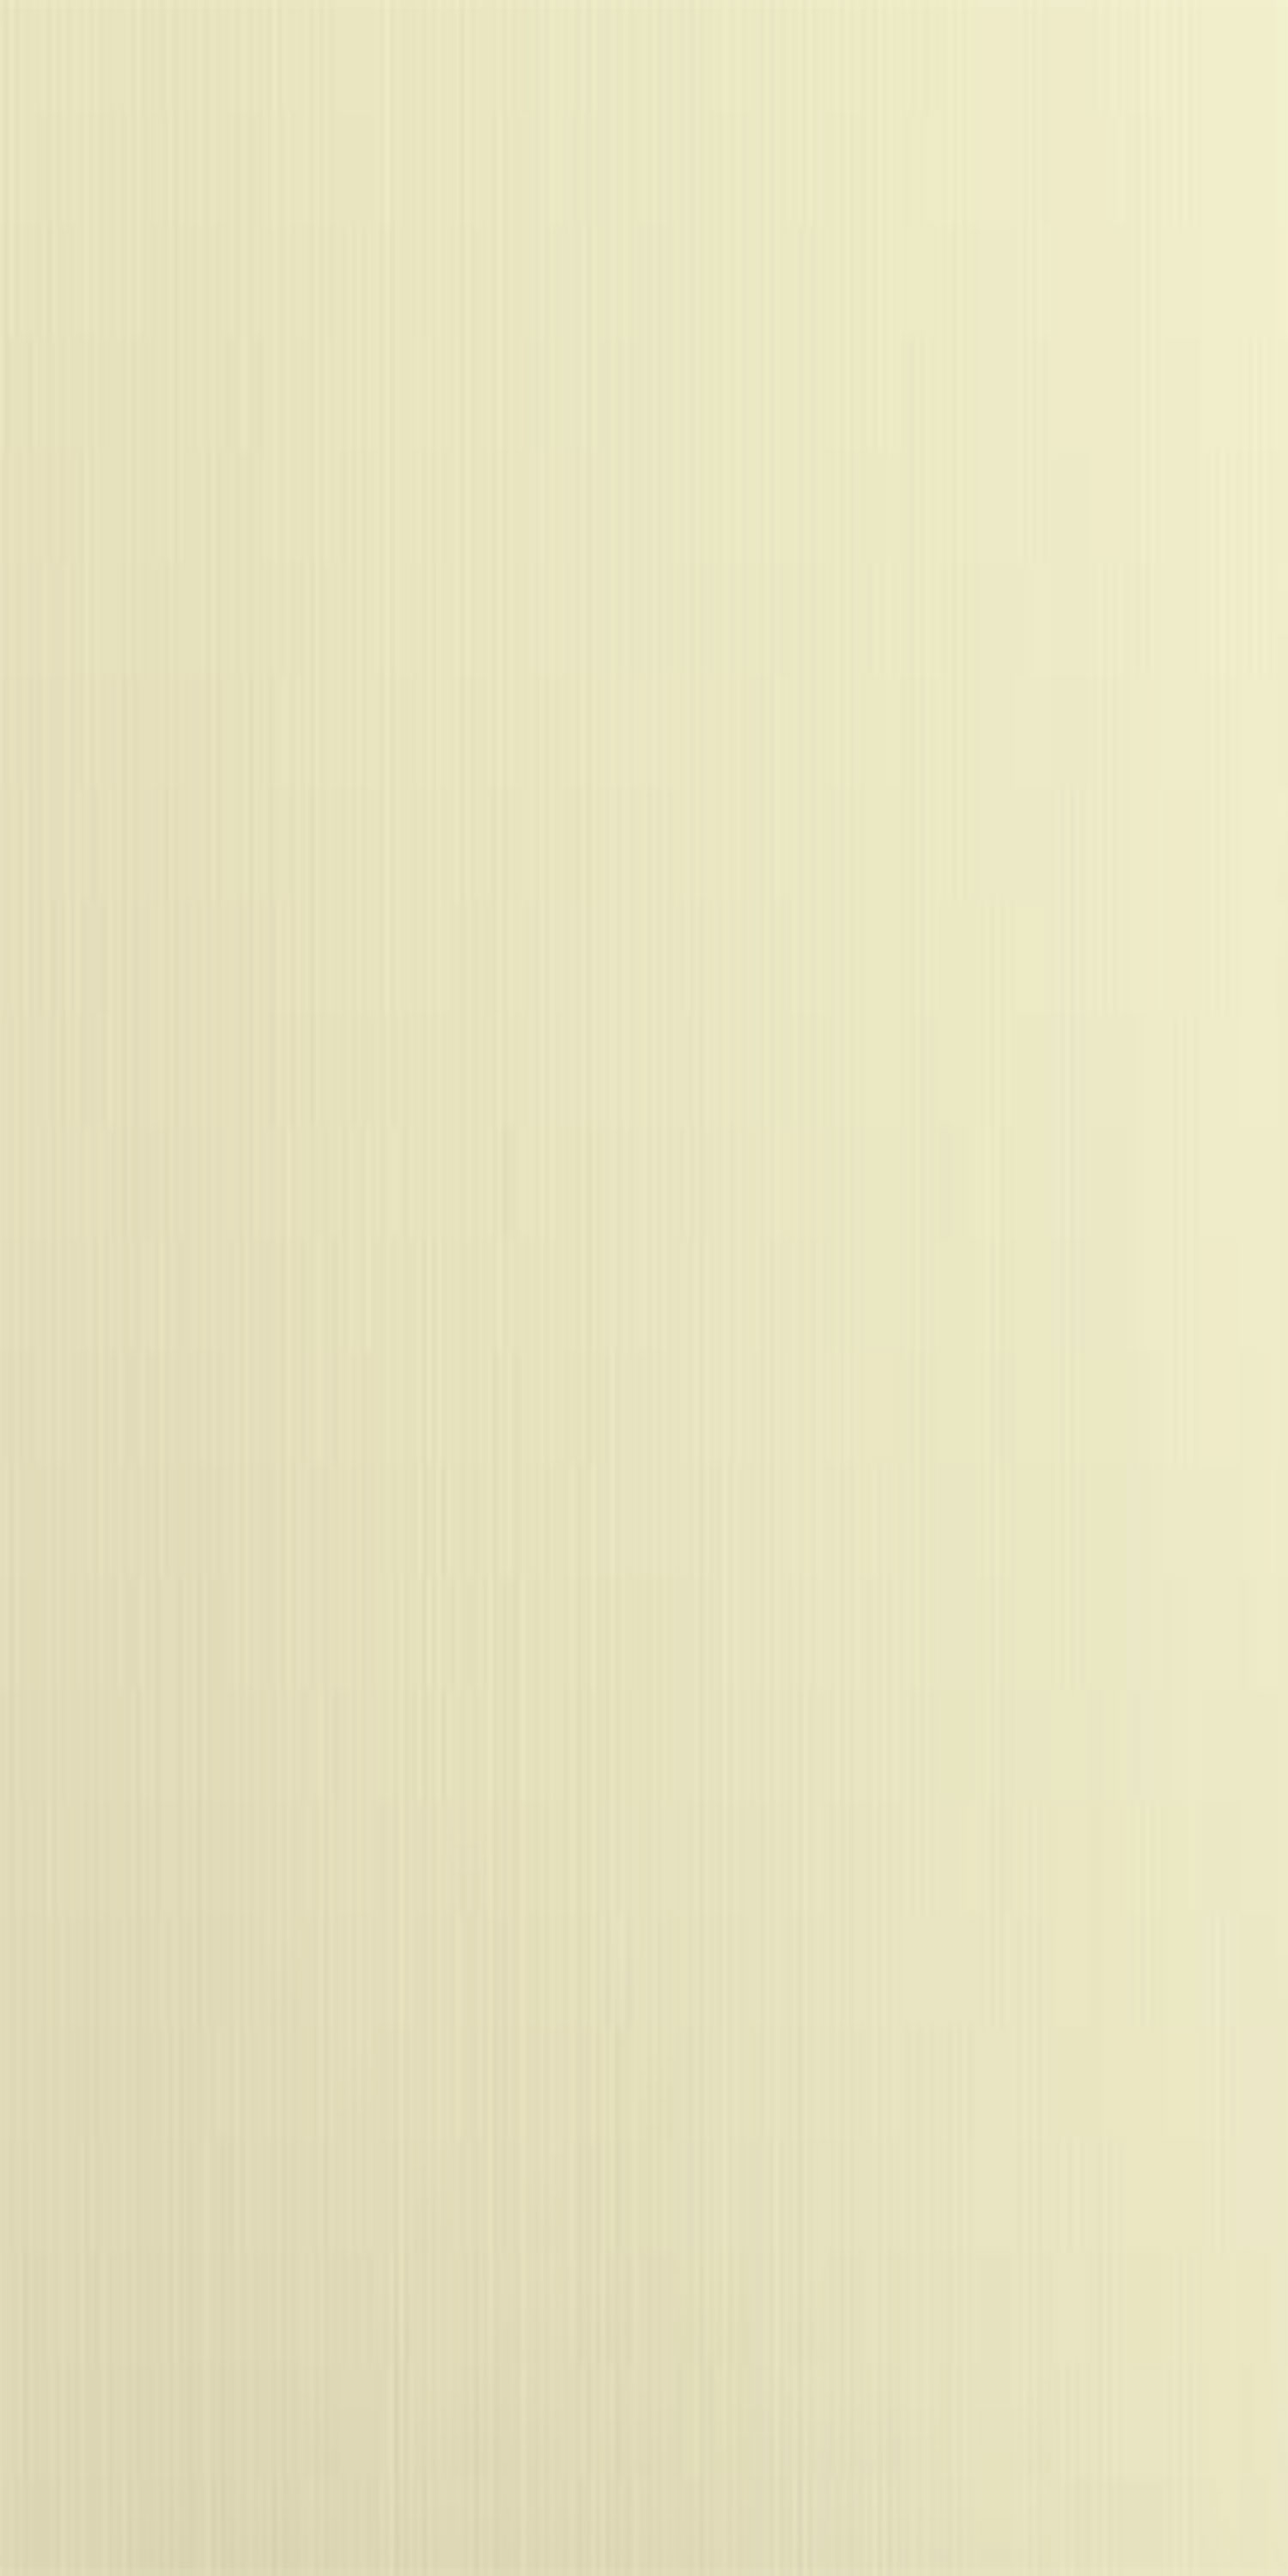
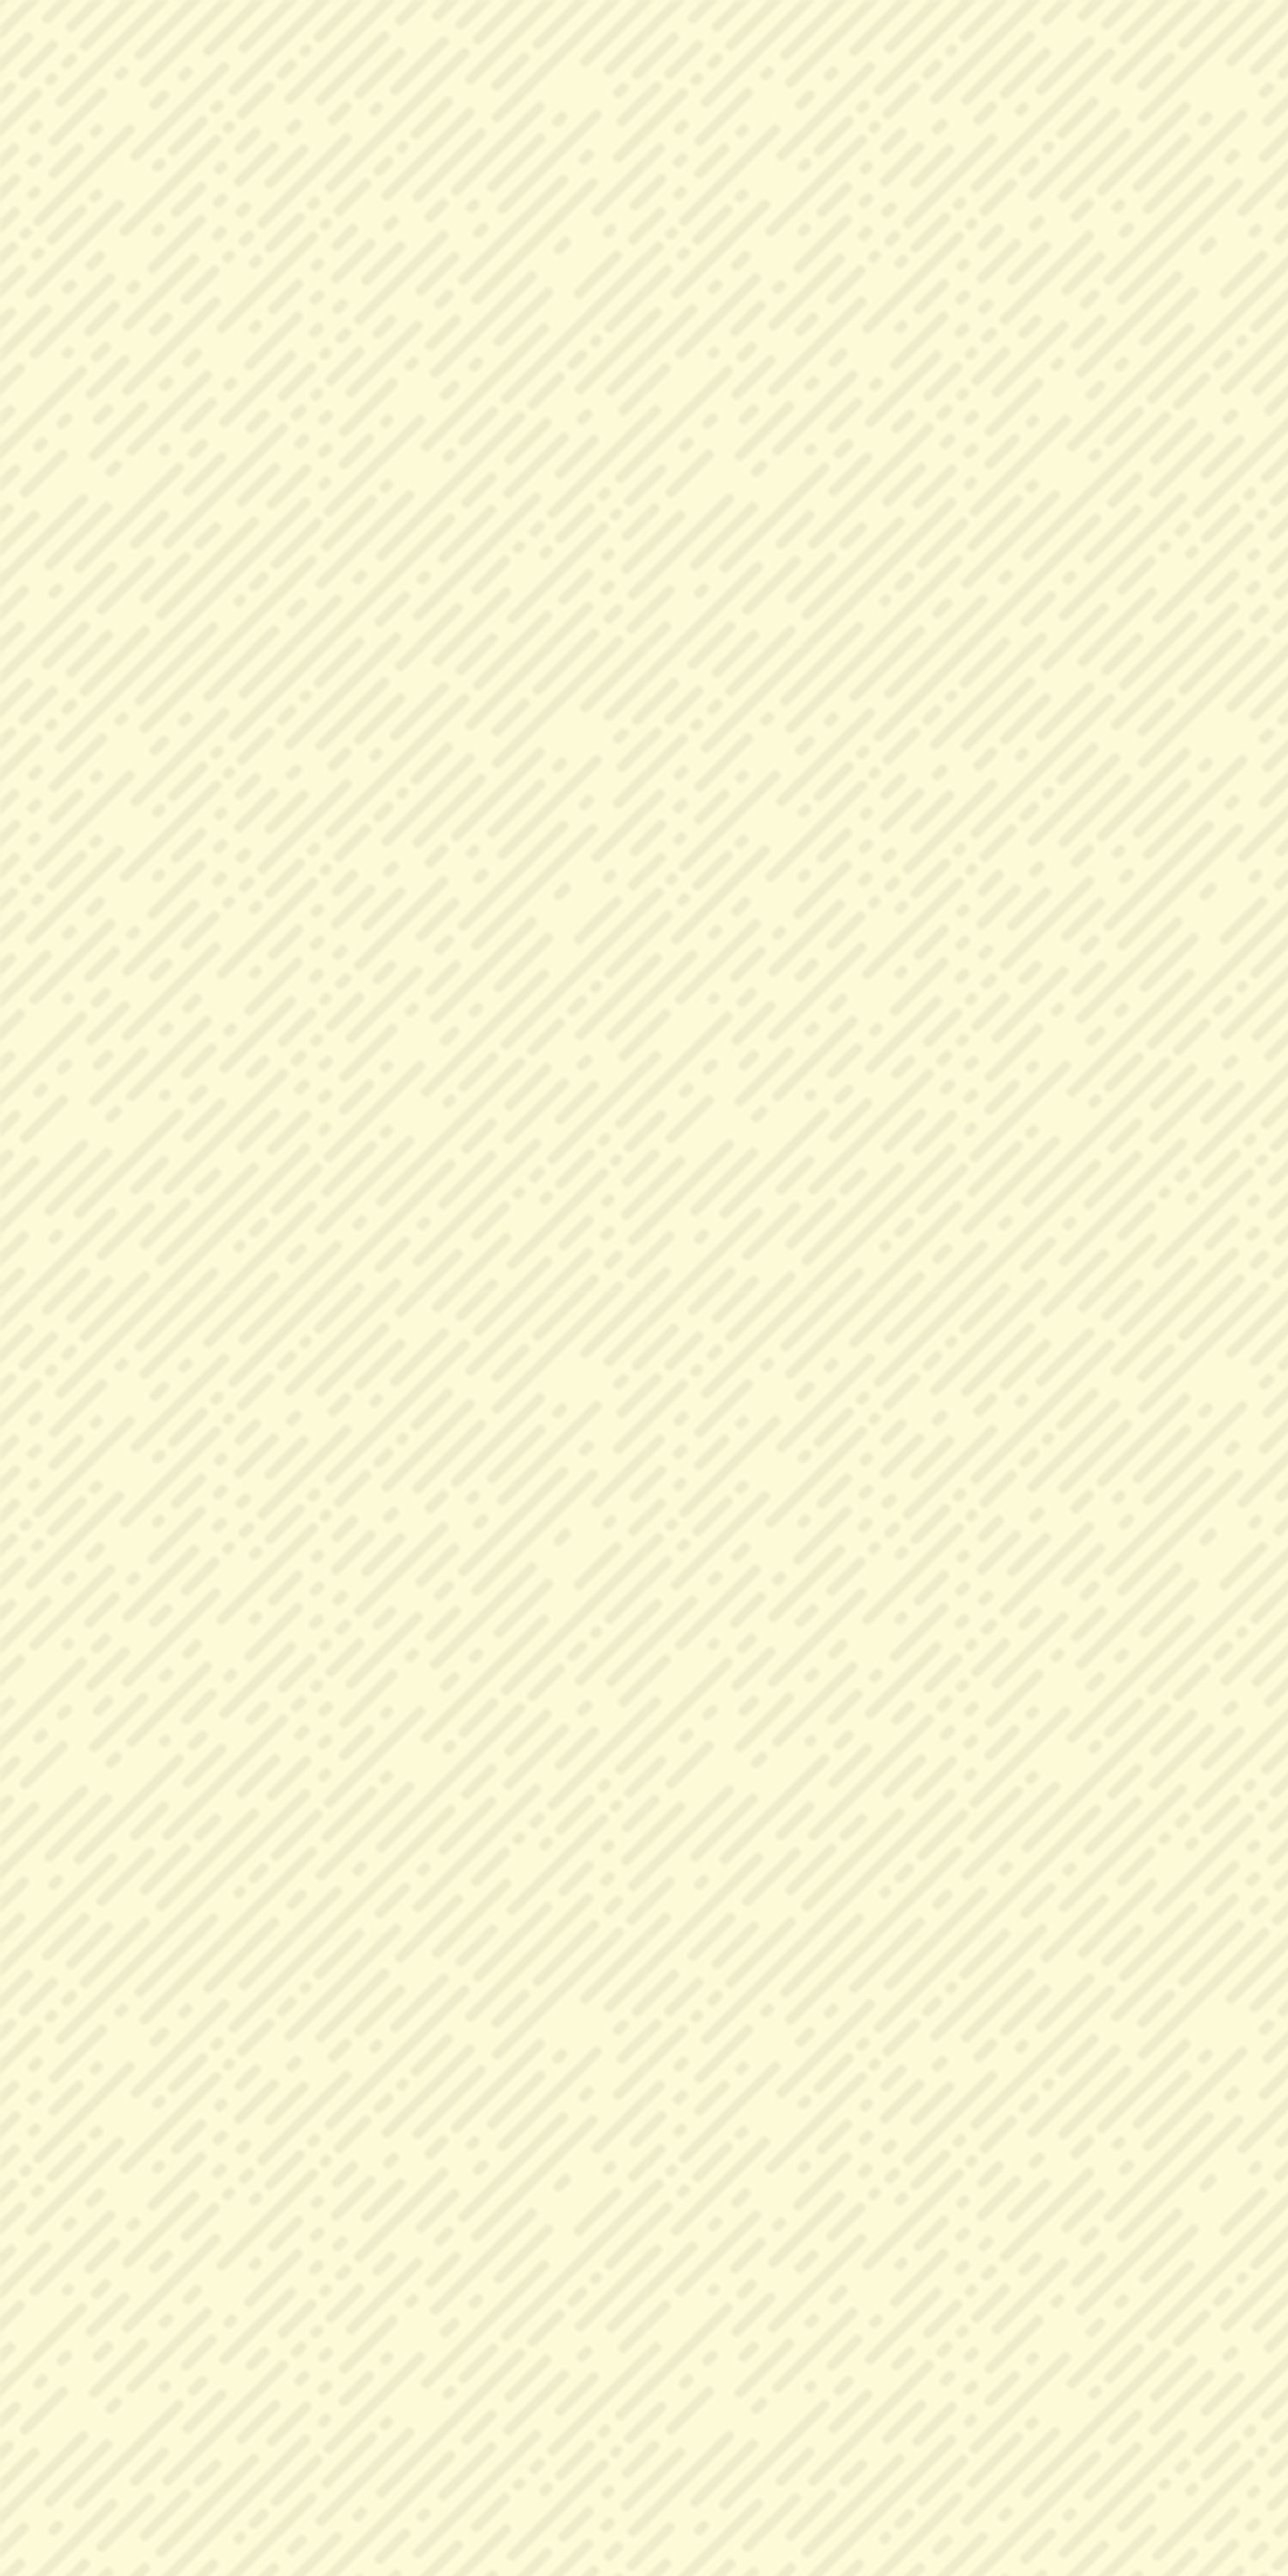
styling

Changed region(s): [[0.0, 0.0, 0.92, 1.0]]

diff --git a/client/src/App.css b/client/src/App.css
@@ -4,8 +4,8 @@
 }
 
 body{
-  background-color: rgb(254, 255, 214);
-  /* background-image: url('./images/main-background.jpg'); */
+  /* background-color: rgb(254, 255, 214); */
+  background-image: url('./images/main-background.jpg');
   margin: 0; padding: 0; height: 100%; width: 100%;
 }
 html {
@@ -123,6 +123,11 @@ min-height: 25px;
 }
 
 .card{
+  box-shadow: 2px 5px 10px #5a618a;
+}
+
+.sign-form {
+  border-radius: 25px;
   box-shadow: 2px 5px 10px #5a618a;
 }
 

diff --git a/client/src/pages/SignIn/SignIn.js b/client/src/pages/SignIn/SignIn.js
@@ -43,7 +43,7 @@ class SignIn extends Component {
         <Jumbotron />
         <div className = "container-fluid">
           <div className = "row">
-            <div className = "col-md-8 mt-5 border border-light mx-auto">
+            <div className = "col-md-8 mt-5 mb-5 border border-light bg-light sign-form p-3 mx-auto">
             <form>
               <div className="form-group">
                 <label className="float-left ml-2">Email address</label>

diff --git a/client/src/pages/SignUp/SignUp.js b/client/src/pages/SignUp/SignUp.js
@@ -42,7 +42,7 @@ class SignUp extends Component {
         <Jumbotron />
         <div className = "container-fluid">
           <div className = "row">
-            <div className = "col-md-8 mt-5 border border-light mx-auto">
+            <div className = "col-md-8 mt-5 mb-5 border border-light bg-light sign-form p-3 mx-auto">
             <form>
               <div className="form-group">
                 <label className="float-left">Email address</label>
